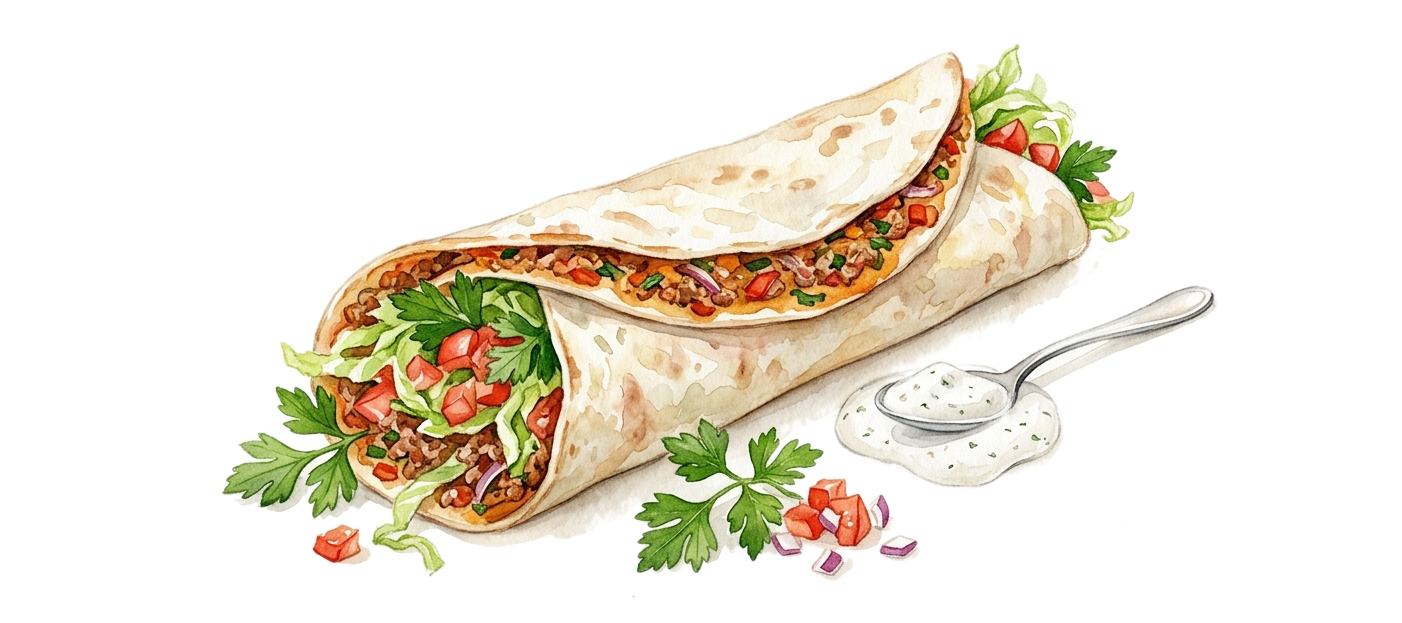
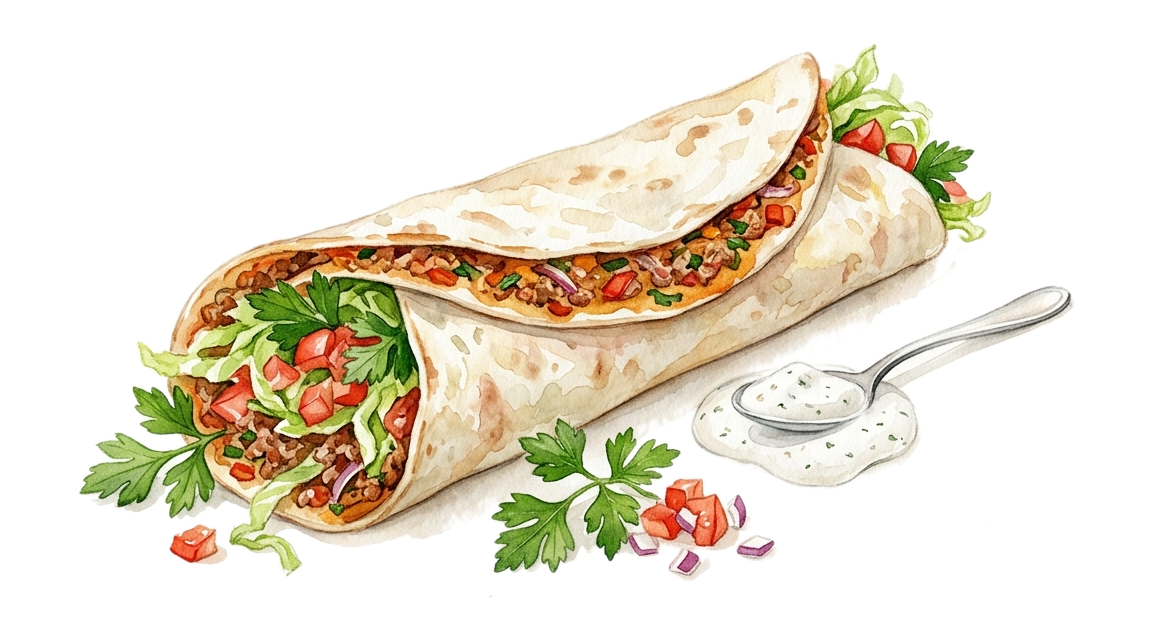
Move lahmacun image to a margin image so the recipe fits on 2 pages
Claude-Session: https://claude.ai/code/session_01HwYp2MrxVtYW8RChuLaLqd

diff --git a/recipes/lahmacun.tex b/recipes/lahmacun.tex
@@ -10,6 +10,7 @@
 
 \meta{1{,}5 uur}
 
+\marginimage{images/lahmacun}
 \lettrine{L}{ahmacun} is een dun Turks flatbread met een laagje gekruid gehakt,
 opgediend met verse toppings en opgerold, ook wel bekend als Turkse pizza. Het
 deeg heeft 45 minuten nodig om te rijzen; begin daar op tijd mee. De pizza's
@@ -80,5 +81,4 @@ worden per stuk gebakken in een droge koekenpan.
         of knoflooksaus.
 \end{steps}
 
-\heroimagefade[recto]{images/lahmacun}
 \end{recipe}